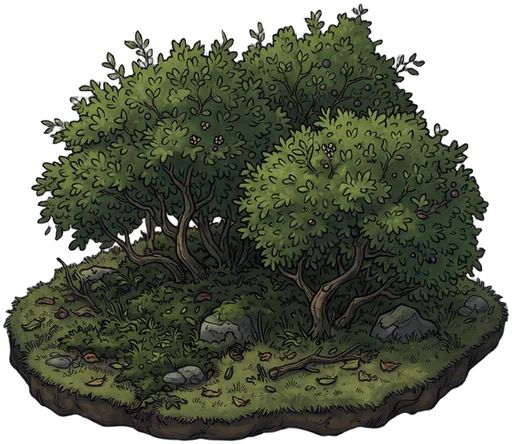
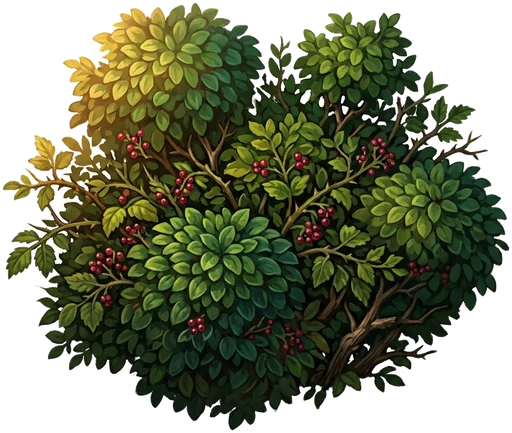
art(phase2b): regenerate remaining grove_pine2 and bush transparent WebP sprites

diff --git a/index.html b/index.html
@@ -68,13 +68,13 @@
     <meta name="apple-mobile-web-app-title" content="KiDesky">
     <link rel="apple-touch-icon" href="assets/icons/icon-192.png">
 
-    <link rel="stylesheet" href="css/main.css?v=202611241325">
+    <link rel="stylesheet" href="css/main.css?v=202611241340">
 
-    <link rel="stylesheet" href="css/board.css?v=202611241325">
+    <link rel="stylesheet" href="css/board.css?v=202611241340">
 
-    <link rel="stylesheet" href="css/modals.css?v=202611241325">
+    <link rel="stylesheet" href="css/modals.css?v=202611241340">
 
-    <link rel="stylesheet" href="css/mobile.css?v=202611241325">
+    <link rel="stylesheet" href="css/mobile.css?v=202611241340">
 
     <!-- Google Identity Services (Sign-In with Google) -->
     <script>
@@ -3116,50 +3116,50 @@
 
     <audio id="prs-bgm-audio" loop preload="none"></audio>
 
-    <script src="js/i18n/languages.js?v=202611241325" defer></script>
-    <script src="js/core/module-loader.js?v=202611241325" defer></script>
-    <script src="js/app-i18n.js?v=202611241325" defer></script>
-    <script src="js/game-data.js?v=202611241325" defer></script>
-    <script src="js/boards/boards-decor-catalog.js?v=202611241325" defer></script>
-    <script src="js/boards/boards-geometry.js?v=202611241325" defer></script>
-    <script src="js/boards/boards-generator.js?v=202611241325" defer></script>
-    <script src="js/boards/boards-builder.js?v=202611241325" defer></script>
-    <script src="js/boards/boards-presets.js?v=202611241325" defer></script>
-    <script src="js/engine/engine-state.js?v=202611241325" defer></script>
-    <script src="js/engine/engine-movement.js?v=202611241325" defer></script>
-    <script src="js/engine/engine-economy.js?v=202611241325" defer></script>
-    <script src="js/engine/engine-actions.js?v=202611241325" defer></script>
-    <script src="js/game-combat-ai.js?v=202611241325" defer></script>
-    <script src="js/app-audio.js?v=202611241325" defer></script>
-    <script src="js/app-dialog.js?v=202611241325" defer></script>
-    <script src="js/app-api.js?v=202611241325" defer></script>
-    <script src="js/app-modal-manager.js?v=202611241325" defer></script>
-    <script src="js/app.js?v=202611241325" defer></script>
-    <script src="js/app/app-music-ui.js?v=202611241325" defer></script>
-    <script src="js/app/app-landing.js?v=202611241325" defer></script>
-    <script src="js/app/app-profile-cosmetics.js?v=202611241325" defer></script>
-    <script src="js/app/app-lobby-session.js?v=202611241325" defer></script>
-    <script src="js/app/app-map-studio.js?v=202611241325" defer></script>
-    <script src="js/board/board-camera.js?v=202611241325" defer></script>
-    <script src="js/board/board-rivers.js?v=202611241325" defer></script>
-    <script src="js/board/board-terrain.js?v=202611241325" defer></script>
-    <script src="js/board/board-backdrop-cache.js?v=202611241325" defer></script>
-    <script src="js/board/board-static-svg.js?v=202611241325" defer></script>
-    <script src="js/board/board-tokens.js?v=202611241325" defer></script>
-    <script src="js/board/board-ambient.js?v=202611241325" defer></script>
-    <script src="js/hud/hud-mobile-dock.js?v=202611241325" defer></script>
-    <script src="js/hud/hud-inspector.js?v=202611241325" defer></script>
-    <script src="js/hud/hud-advisor.js?v=202611241325" defer></script>
-    <script src="js/hud/hud-action-panel.js?v=202611241325" defer></script>
-    <script src="js/hud/hud-turn-actions.js?v=202611241325" defer></script>
-    <script src="js/modals/modal-victory-diploma.js?v=202611241325" defer></script>
-    <script src="js/modals/modal-armory.js?v=202611241325" defer></script>
-    <script src="js/modals/modal-combat.js?v=202611241325" defer></script>
-    <script src="js/modals/modal-festival-chance.js?v=202611241325" defer></script>
-    <script src="js/modals/modal-cheatsheet.js?v=202611241325" defer></script>
-    <script src="js/app-online.js?v=202611241325" defer></script>
-    <script src="js/app-saves.js?v=202611241325" defer></script>
-    <script src="js/app-musicwidget.js?v=202611241325" defer></script>
+    <script src="js/i18n/languages.js?v=202611241340" defer></script>
+    <script src="js/core/module-loader.js?v=202611241340" defer></script>
+    <script src="js/app-i18n.js?v=202611241340" defer></script>
+    <script src="js/game-data.js?v=202611241340" defer></script>
+    <script src="js/boards/boards-decor-catalog.js?v=202611241340" defer></script>
+    <script src="js/boards/boards-geometry.js?v=202611241340" defer></script>
+    <script src="js/boards/boards-generator.js?v=202611241340" defer></script>
+    <script src="js/boards/boards-builder.js?v=202611241340" defer></script>
+    <script src="js/boards/boards-presets.js?v=202611241340" defer></script>
+    <script src="js/engine/engine-state.js?v=202611241340" defer></script>
+    <script src="js/engine/engine-movement.js?v=202611241340" defer></script>
+    <script src="js/engine/engine-economy.js?v=202611241340" defer></script>
+    <script src="js/engine/engine-actions.js?v=202611241340" defer></script>
+    <script src="js/game-combat-ai.js?v=202611241340" defer></script>
+    <script src="js/app-audio.js?v=202611241340" defer></script>
+    <script src="js/app-dialog.js?v=202611241340" defer></script>
+    <script src="js/app-api.js?v=202611241340" defer></script>
+    <script src="js/app-modal-manager.js?v=202611241340" defer></script>
+    <script src="js/app.js?v=202611241340" defer></script>
+    <script src="js/app/app-music-ui.js?v=202611241340" defer></script>
+    <script src="js/app/app-landing.js?v=202611241340" defer></script>
+    <script src="js/app/app-profile-cosmetics.js?v=202611241340" defer></script>
+    <script src="js/app/app-lobby-session.js?v=202611241340" defer></script>
+    <script src="js/app/app-map-studio.js?v=202611241340" defer></script>
+    <script src="js/board/board-camera.js?v=202611241340" defer></script>
+    <script src="js/board/board-rivers.js?v=202611241340" defer></script>
+    <script src="js/board/board-terrain.js?v=202611241340" defer></script>
+    <script src="js/board/board-backdrop-cache.js?v=202611241340" defer></script>
+    <script src="js/board/board-static-svg.js?v=202611241340" defer></script>
+    <script src="js/board/board-tokens.js?v=202611241340" defer></script>
+    <script src="js/board/board-ambient.js?v=202611241340" defer></script>
+    <script src="js/hud/hud-mobile-dock.js?v=202611241340" defer></script>
+    <script src="js/hud/hud-inspector.js?v=202611241340" defer></script>
+    <script src="js/hud/hud-advisor.js?v=202611241340" defer></script>
+    <script src="js/hud/hud-action-panel.js?v=202611241340" defer></script>
+    <script src="js/hud/hud-turn-actions.js?v=202611241340" defer></script>
+    <script src="js/modals/modal-victory-diploma.js?v=202611241340" defer></script>
+    <script src="js/modals/modal-armory.js?v=202611241340" defer></script>
+    <script src="js/modals/modal-combat.js?v=202611241340" defer></script>
+    <script src="js/modals/modal-festival-chance.js?v=202611241340" defer></script>
+    <script src="js/modals/modal-cheatsheet.js?v=202611241340" defer></script>
+    <script src="js/app-online.js?v=202611241340" defer></script>
+    <script src="js/app-saves.js?v=202611241340" defer></script>
+    <script src="js/app-musicwidget.js?v=202611241340" defer></script>
     <script>
         (function () {
             function bootApp() {

diff --git a/js/boards/boards-decor-catalog.js b/js/boards/boards-decor-catalog.js
@@ -752,6 +752,8 @@ window.PRS_DECOR_CATALOG = {
         tree_birch: 0,
         grove_oak: 0,
         grove_pine: 0,
+        grove_pine2: 0,
+        bush: 0,
         rock_boulder: 0,
         mountain_peaks: 0,
         farm_field: 0,

diff --git a/service-worker.js b/service-worker.js
@@ -1,4 +1,4 @@
-const CACHE_NAME = 'kidesky-cache-v1.9.84';
+const CACHE_NAME = 'kidesky-cache-v1.9.85';
 const CORE_ASSETS = [
   './',
   './index.html',

diff --git a/ARCHITECTURE.md b/ARCHITECTURE.md
@@ -22,7 +22,7 @@ Aplikace kombinuje čistý **klientský Vanilla JS / SVG / PWA stack** (bez bund
 KiDesky/
 ├── index.html                  # Aplikační shell, sekvenční <script defer> s ?v=... cache-bustingem
 ├── manifest.json               # PWA manifest
-├── service-worker.js           # Offline/caching strategie (CACHE_NAME = kidesky-cache-v1.9.84)
+├── service-worker.js           # Offline/caching strategie (CACHE_NAME = kidesky-cache-v1.9.85)
 ├── web.config                  # IIS hlavičky, customErrors=RemoteOnly, skrytí backend/, MIME mapy
 ├── appsettings.json            # Šablona konfigurace (SQL, SMTP, Google OAuth, FTP, Gemini)
 ├── deploy_code_update.ps1      # FTP deploy s 64 KB streamingem, retry a před-deploy kontrolou
@@ -223,7 +223,7 @@ Sdílená abstraktní bázová třída pro router i všechny subhandlery:
 - **Grafika v WebP + SVG/CSS zrcadlení:** Herní obrázky byly zkonvertovány do `.webp` (`tools/optimize-assets-webp.py`) a duplicitní soubory `*_flip.*` byly zrušeny. Zrcadlení doleva/doprava provádí nativní SVG transformace `scale(-1, 1)` nebo CSS třída `.is-flipped`. Zpětnou kompatibilitu u starších URL zajišťuje `PRS_normalizeAssetUrl()`.
 - **Média mimo Git:** Audio stopy (`assets/audio/*.mp3`, 128 kbps CBR) i videa (`*.mp4`, např. `ps_intro_04.mp4` v 720p H.264 CRF 26) jsou v `.gitignore` vyloučeny pomocí pravidel `*.mp3` a `*.mp4` (složku `assets/audio/` udržuje `.gitkeep`), aby se nenafukovala historie repozitáře.
 - **PWA Service Worker (`service-worker.js`):**
-  - `CACHE_NAME` (aktuálně `kidesky-cache-v1.9.84`) se při změně kódu navyšuje společně s `?v=...` u všech stylů/skriptů v `index.html` (kontroluje `predeploy-check.js`).
+  - `CACHE_NAME` (aktuálně `kidesky-cache-v1.9.85`) se při změně kódu navyšuje společně s `?v=...` u všech stylů/skriptů v `index.html` (kontroluje `predeploy-check.js`).
   - `install` přednačte `CORE_ASSETS` a volá `self.skipWaiting()`; `activate` smaže staré verze cache a převezme klienty (`clients.claim()`).
   - **Fetch strategie:**
     - *Bypass (vždy síť):* non-GET požadavky, cizí domény, `api.ashx`, `/api/`, `Range` hlavičky, `/assets/audio/`, `/assets/video/` a přípony `.mp3`, `.wav`, `.ogg`, `.m4a`, `.mp4`, `.webm`.
